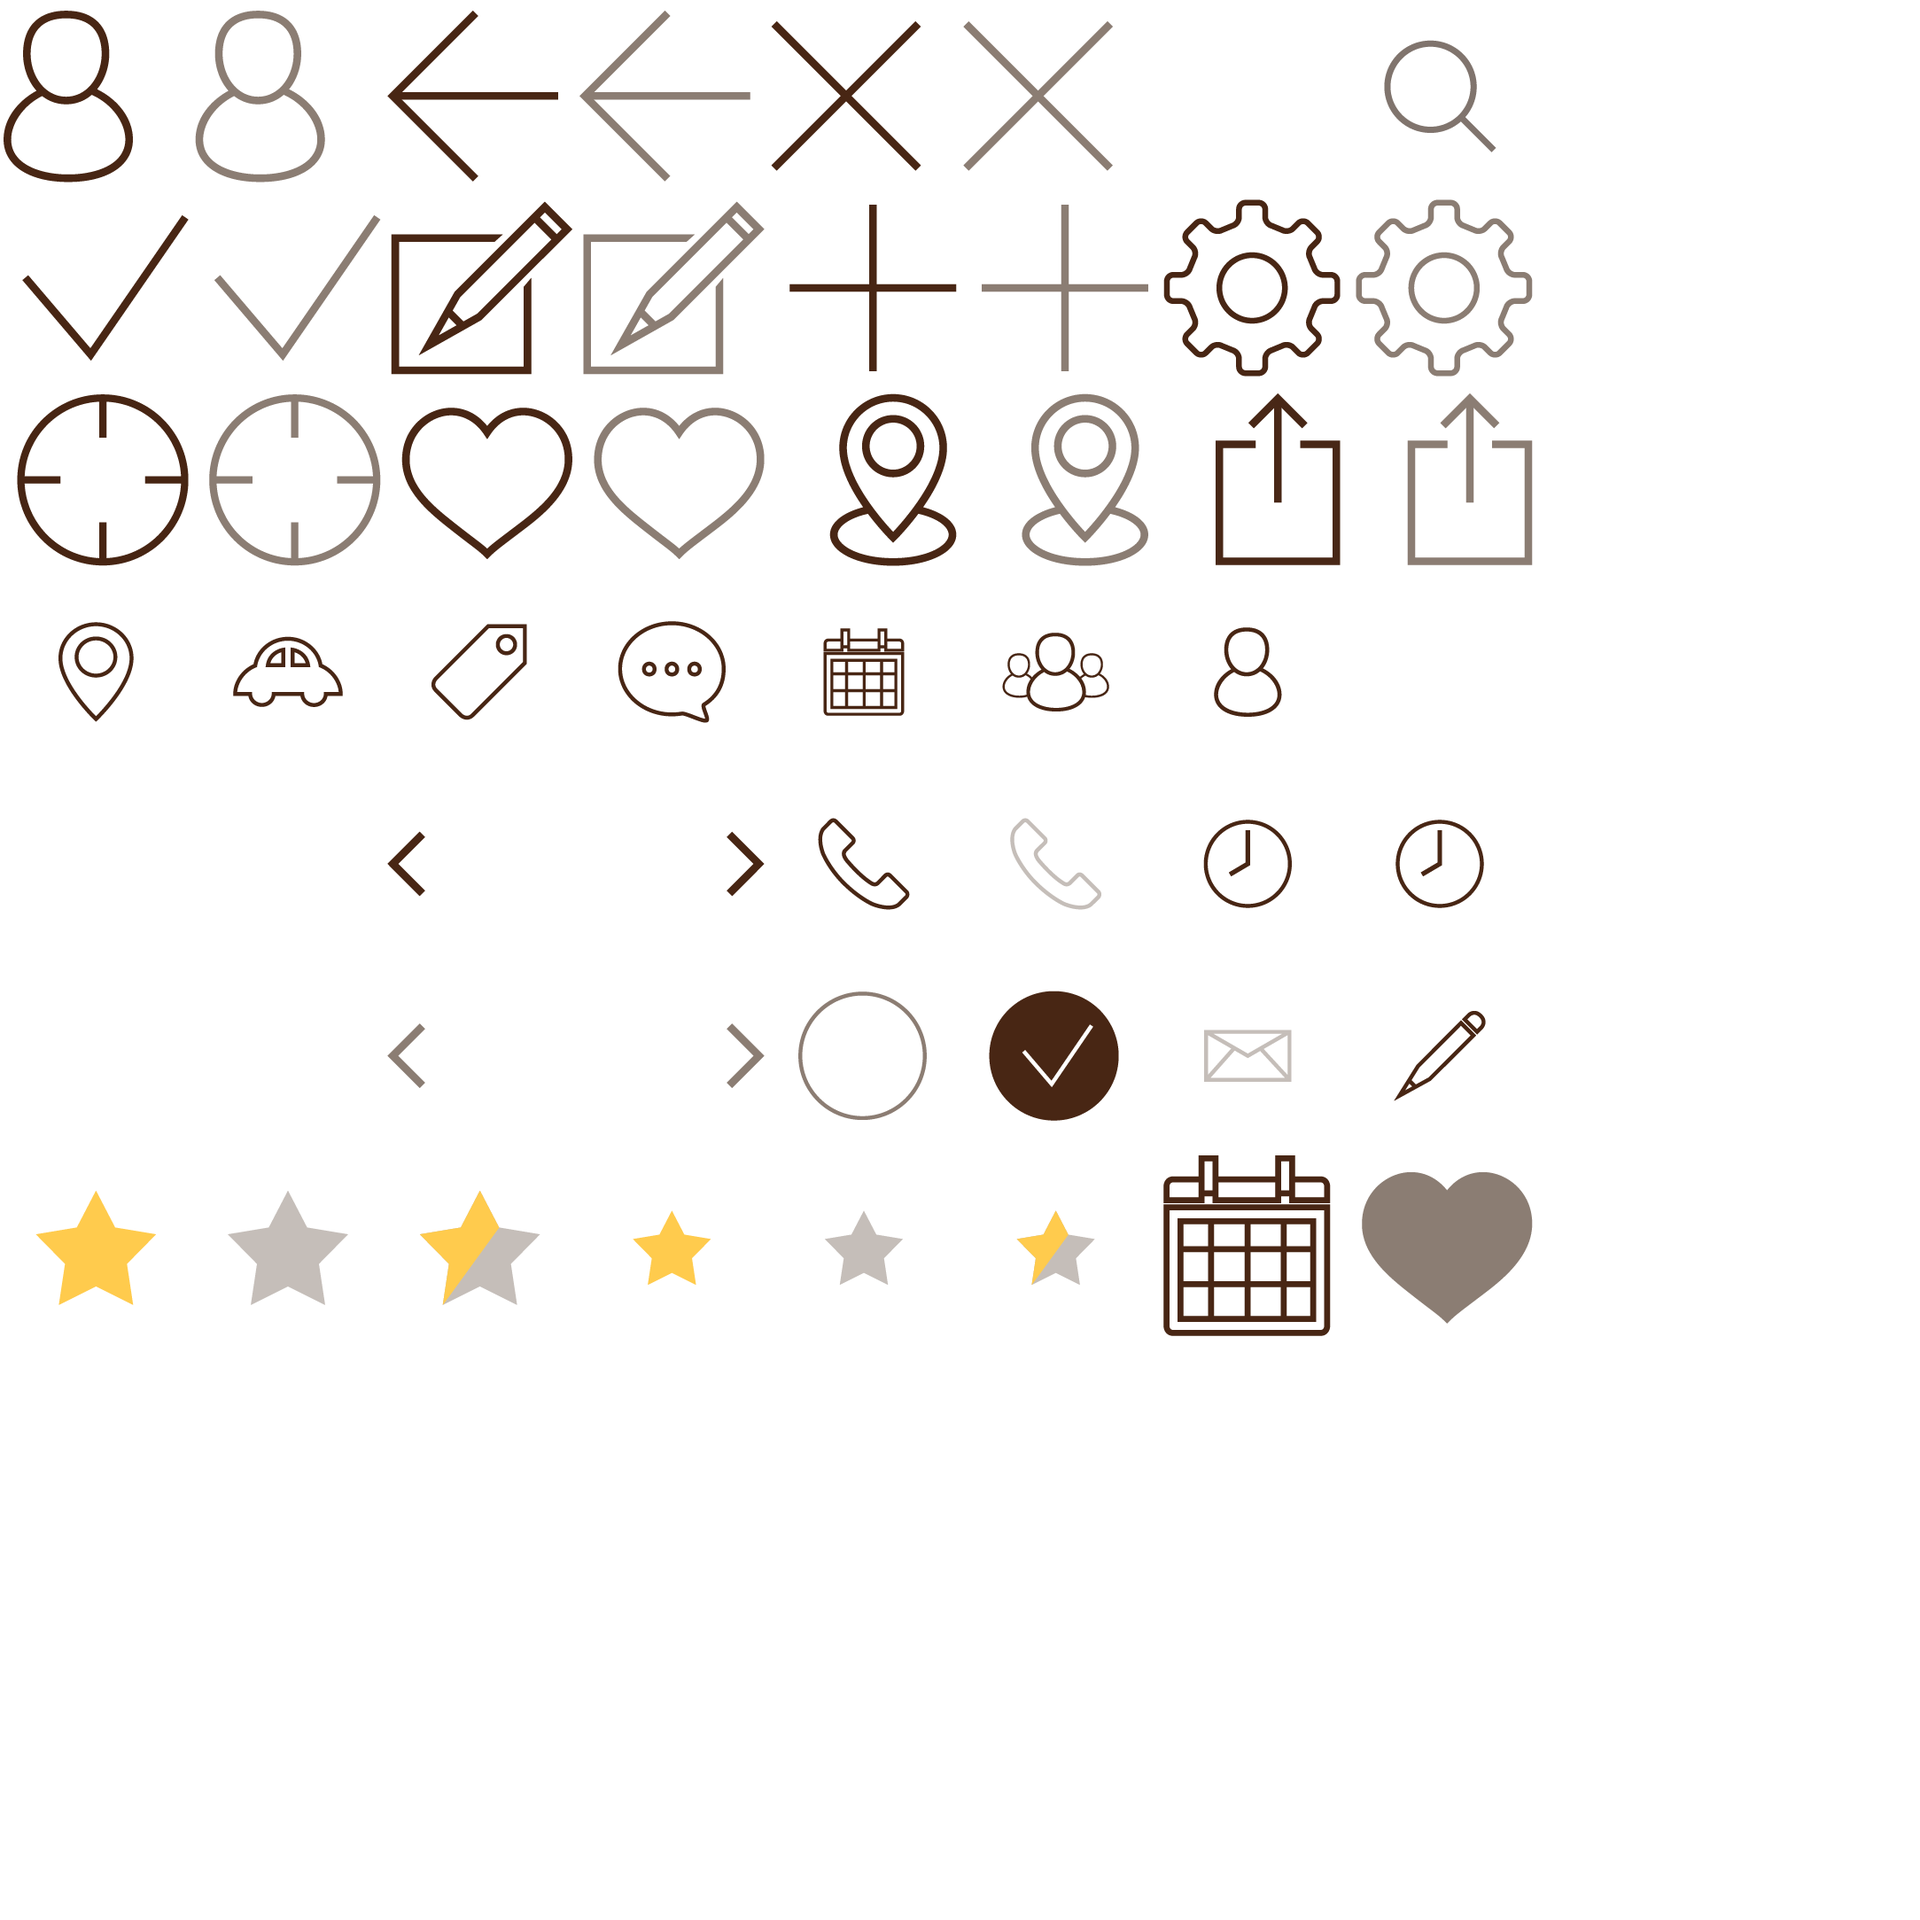
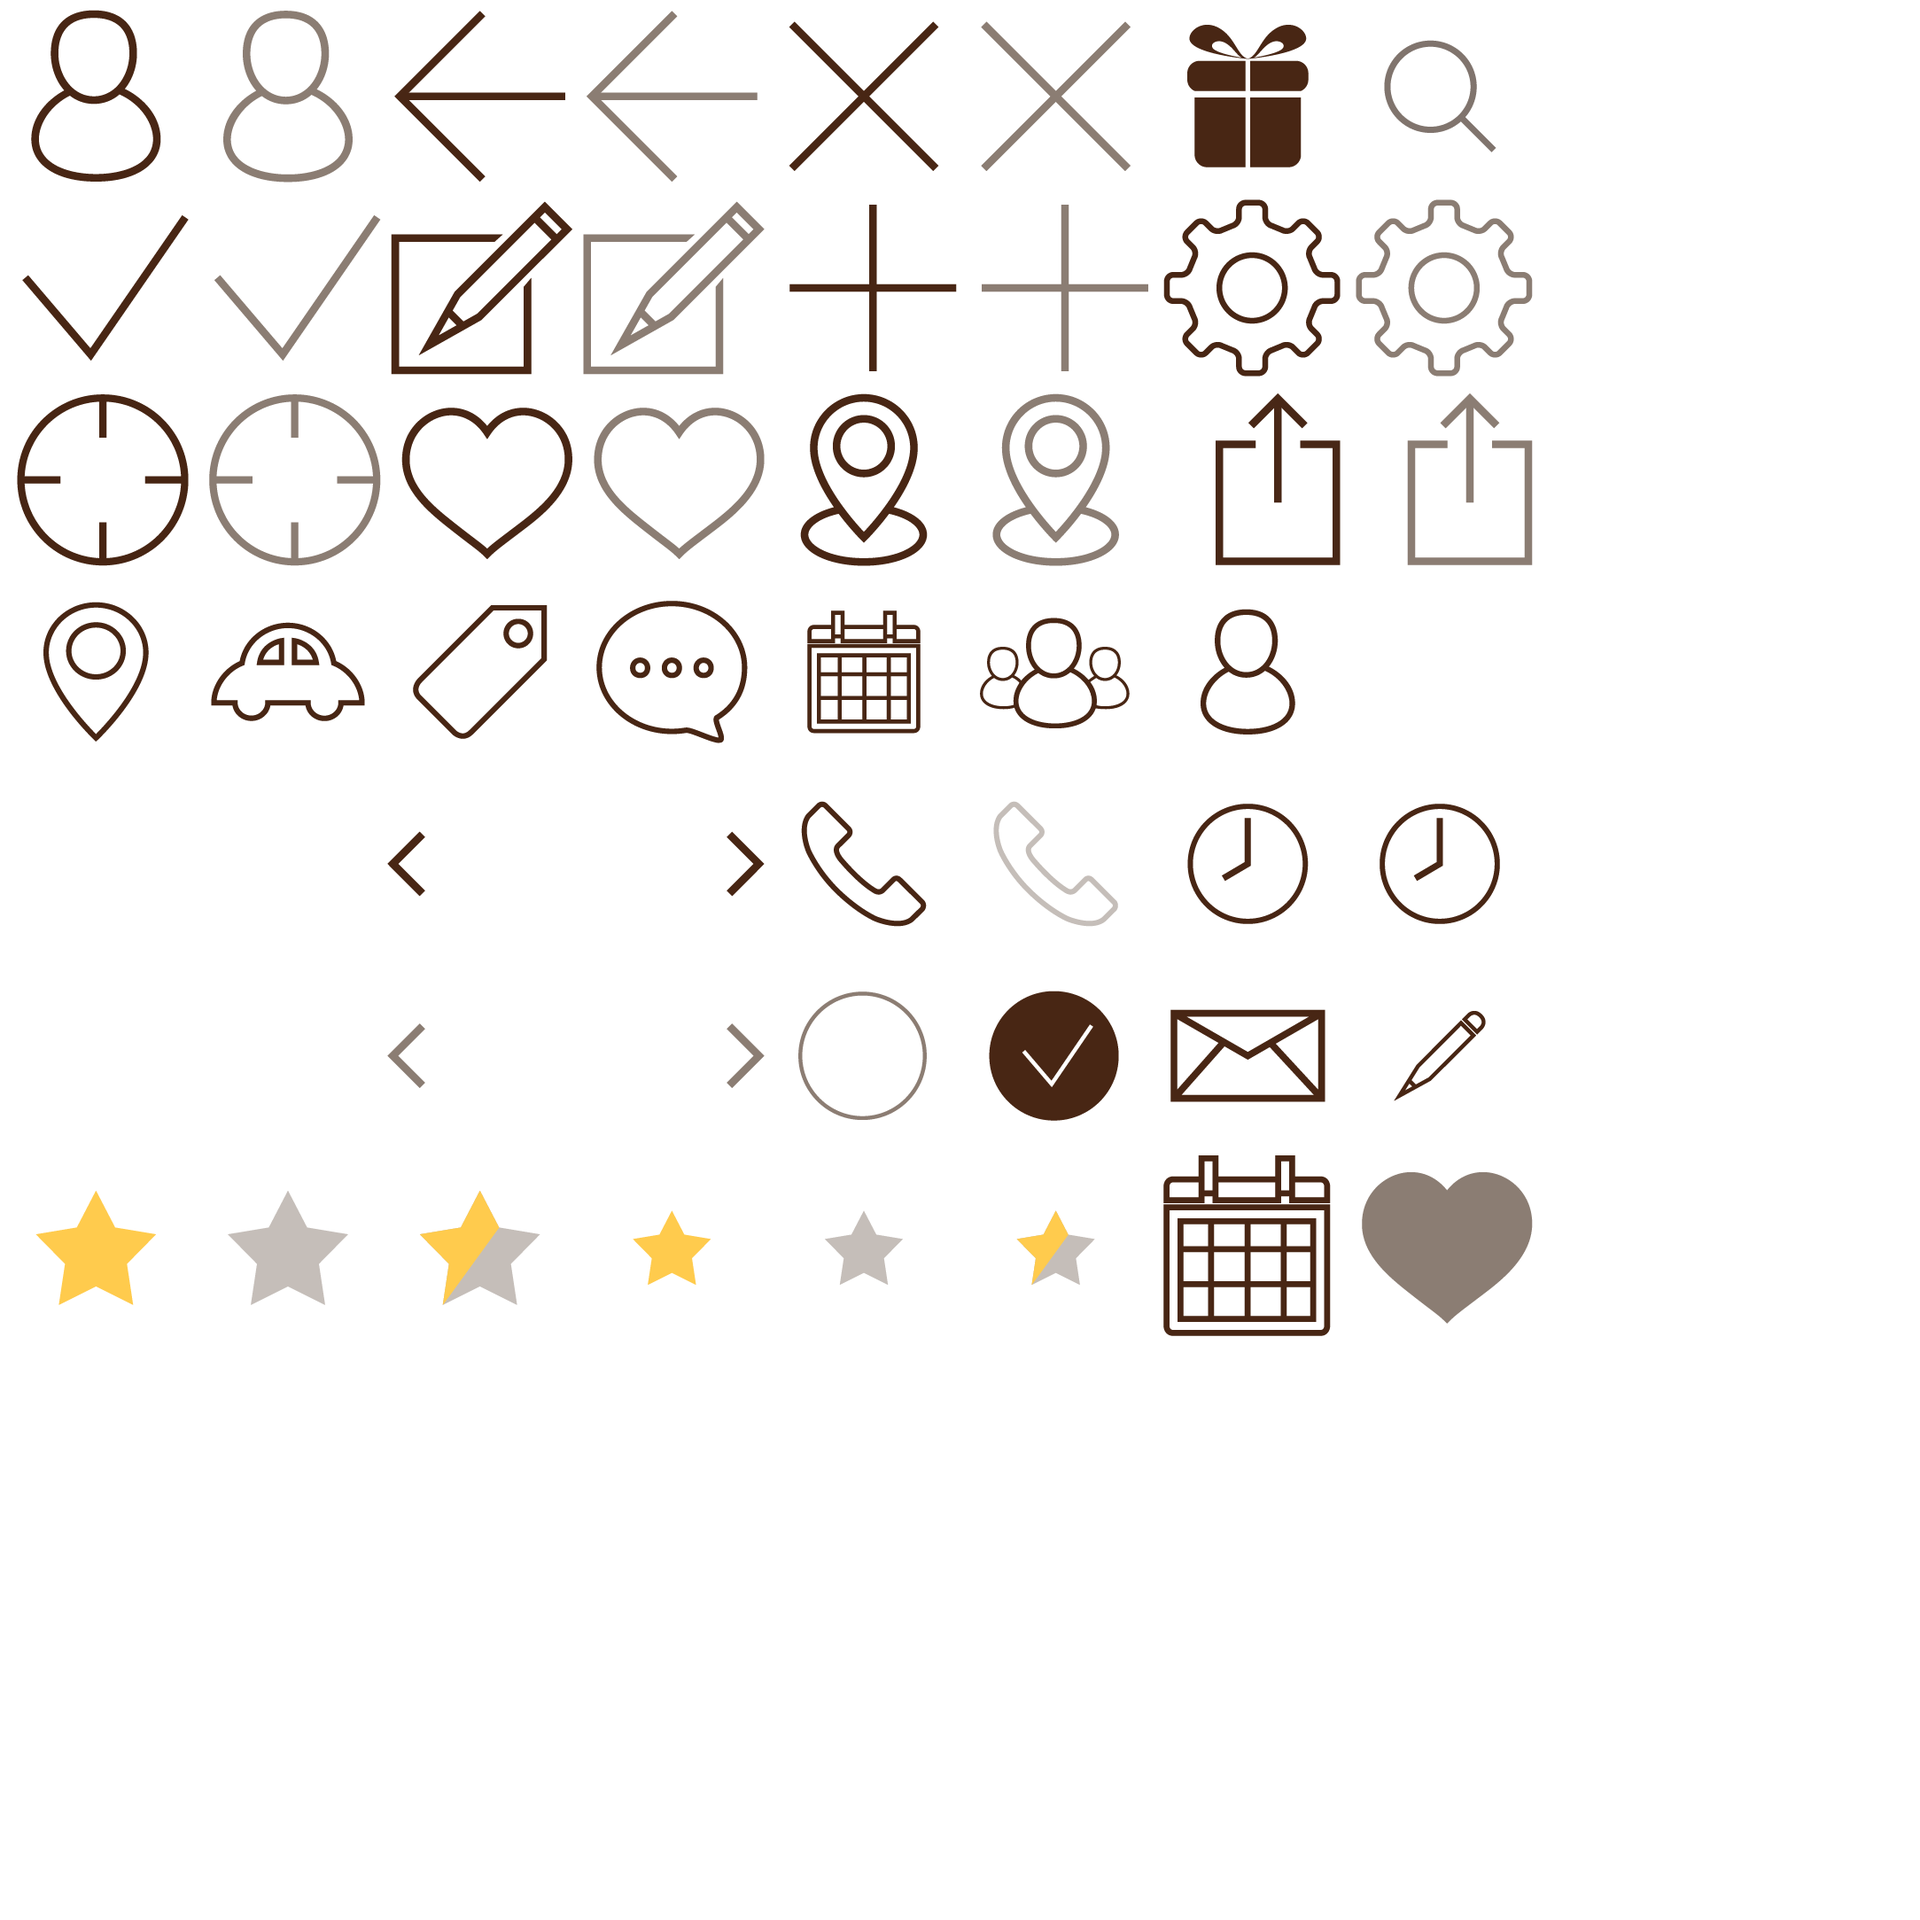
Add anniversary detail.

diff --git a/assets/js/app/views/member-anniversary-detail.js b/assets/js/app/views/member-anniversary-detail.js
@@ -1,0 +1,51 @@
+
+MeiweiApp.Views.MemberAnniversaryForm = MeiweiApp.View.extend({
+	events: {
+		'click .save-button': 'save',
+		'click .delete-button': 'remove',
+	},
+	save: function(e) {
+		e.preventDefault();
+		this.anniversary.set({
+			date: this.$('input[name=date]').val() || null,
+			description: this.$('input[name=description]').val() || null
+		});
+		var $infoText = this.$('.info-text');
+		this.anniversary.save({}, { 
+		    success: function() {
+		    	MeiweiApp.goTo('MemberAnniversaries');
+		    },
+		    error: function(model, xhr, options) {
+	            var error = JSON.parse(xhr.responseText);
+		        for (var k in error) { $infoText.html(error[k]);  break; };
+            }
+		});
+	},
+	remove: function() {
+		this.anniversary.destroy({
+			success: function() {
+		    	MeiweiApp.goTo('MemberAnniversaries');
+		    }, 
+		});
+	},
+	render: function() {
+		this.$('.delete-button').toggleClass('hidden', this.anniversary.isNew());
+		this.$('input[name=date]').val(this.anniversary.get('date'));
+		this.$('input[name=description]').val(this.anniversary.get('description'));
+	}
+});
+
+MeiweiApp.Pages.MemberAnniversariyDetail = new (MeiweiApp.PageView.extend({
+	initPage: function() {
+		this.views = {
+			anniversaryForm: new MeiweiApp.Views.MemberAnniversaryForm({
+				el: this.$('.anniversary-detail-form')
+			}),
+		};
+	},
+	render: function() {
+		this.views.anniversaryForm.anniversary = this.options.anniversary ? 
+			this.options.anniversary : new MeiweiApp.Models.Anniversary();
+		this.views.anniversaryForm.render();
+	}
+}))({el: $("#view-member-anniversary-detail")});

diff --git a/mobile/view-member-anniversary-detail.html b/mobile/view-member-anniversary-detail.html
@@ -1,0 +1,38 @@
+<div class="view view-hidden" id="view-member-anniversary-detail">
+	<header>
+		<div class="header-btn header-btn-left">
+			<i class="icon-back"></i>
+		</div>
+		<h1>纪念日</h1>
+		<div class="header-btn header-btn-right">
+			<i class="icon-blank"></i>
+		</div>
+	</header>
+	<section class="wrapper">
+		<div class="scroll iscroll">
+			<div class="scroll-inner">
+				<div class="anniversary-detail-form">
+					<form>
+						<p class="info-text"></p>
+						<fieldset>
+							<div class="inline-group">
+								<i class="icon-gift"></i>
+								<label>标题</label>
+								<input type="text" name="description" placeholder="标题"/>
+							</div>
+							<div class="inline-group">
+								<i class="icon-calendar"></i>
+								<label>日期</label>
+								<input type="date" name="date" />
+							</div>
+						</fieldset>
+					</form>
+					<div class="button-group">
+						<button class="save-button btn-inverse">保存</button>
+						<button class="delete-button">删除</button>
+					</div>
+				</div>
+			</div>
+		</div>
+	</section>
+</div>

diff --git a/assets/js/app/views/member-anniversaries.js b/assets/js/app/views/member-anniversaries.js
@@ -2,7 +2,13 @@
 MeiweiApp.Views.AnnversaryList = MeiweiApp.CollectionView.extend({
 	ModelView: MeiweiApp.ModelView.extend({
 		template: MeiweiApp.Templates['member-anniversary-item'],
-		className: 'anniversary-list-item'
+		className: 'anniversary-list-item',
+		events: { 'click': 'modify' },
+		modify: function() {
+			MeiweiApp.goTo('MemberAnniversariyDetail', {
+				anniversary: this.model
+			});
+		}
 	}),
 	addAll: function() {
 		var $list = [];
@@ -21,7 +27,9 @@ MeiweiApp.Views.AnnversaryList = MeiweiApp.CollectionView.extend({
 
 MeiweiApp.Pages.MemberAnniversaries = new (MeiweiApp.PageView.extend({
 	onClickLeftBtn: function() { MeiweiApp.goTo('MemberCenter'); },
-	onClickRightBtn: function() { MeiweiApp.goTo('MemberAnniversariyDetail'); },
+	onClickRightBtn: function() {
+		MeiweiApp.goTo('MemberAnniversariyDetail');
+	},
 	initPage: function() {
 		this.anniversaries = new MeiweiApp.Collections.Anniversaries();
 		this.views = {

diff --git a/assets/scss/mobile/_sprites.scss b/assets/scss/mobile/_sprites.scss
@@ -35,6 +35,8 @@
 .icon-cancel				{ @include icon-offset(4, 0); }
 //.icon-cancel:active			{ @include icon-offset(5, 0); }
 
+.icon-gift					{ @include icon-offset(6, 0); }
+
 .icon-confirm				{ @include icon-offset(0, 1); }
 //.icon-confirm:active		{ @include icon-offset(1, 1); }
 
@@ -79,7 +81,7 @@
 .icon-clock					{ @include icon-offset(6, 4); }
 .icon-clock					{ @include icon-offset(7, 4); }
 
-.icon-gift					{ @include icon-offset(0, 5); }
+.icon-gift-light			{ @include icon-offset(0, 5); }
 .icon-edit-light			{ @include icon-offset(1, 5); }
 .icon-left-light			{ @include icon-offset(2, 5); }
 .icon-right-light			{ @include icon-offset(3, 5); }

diff --git a/assets/scss/mobile/_forms.scss b/assets/scss/mobile/_forms.scss
@@ -56,14 +56,14 @@ input[type="color"],
 	@include box-sizing(border-box);
 	@include box-shadow(none);
 	@include clear-outline();
-	@include placeholder($brownLight);
 	@include border-radius(0);
 	border: 1px solid $brownLighter;
 	
 	display: block;
 	color: $brown;
 	font-family: $sansFontFamily;
-	//font-size: $fontSizeSmall;
+	font-size: $fontSizeSmall;
+	@include placeholder($brownLight, $fontSizeSmall);
 	padding: 8px 11px;
 	height: 44px;
 	
@@ -98,6 +98,7 @@ form .info-text {
 form label {
 	font-size: $fontSizeSmall;
 	color: $brown;
+	vertical-align: middle;
 }
 
 //radio-button

diff --git a/assets/scss/mobile/_navbar.scss b/assets/scss/mobile/_navbar.scss
@@ -54,15 +54,15 @@
 	@include size(50px, 53px);
 	padding-bottom: 6px;
 	@include flex-box($orient: horizontal);
-	i { position: relative; }
-	i.pressed::before, &.pressed i::before {
+	i, p { position: relative; }
+	i.pressed::before, &.pressed i::before, p.pressed::before, &.pressed p::before {
 		content: "";
 		position: absolute;
 		top: -12px;
 		right: -12px;
 		bottom: -12px;
 		left: -12px;
-		background: url($spotLightPath) no-repeat center;
+		background: url($spotLightPath) no-repeat left;
 		@include background-size(contain);
 	}
 }

diff --git a/mobile/index.html b/mobile/index.html
@@ -58,6 +58,7 @@
         include "view-member-credits.html"
         include "view-member-favorites.html"
         include "view-member-anniversaries.html"
+        include "view-member-anniversary-detail.html"
         
         include "view-order-list.html"
         include "view-order-detail.html"

diff --git a/assets/scss/mobile/_buttons.scss b/assets/scss/mobile/_buttons.scss
@@ -51,8 +51,6 @@ input[type="submit"], button, .btn {
 	input[type="submit"], button, .btn {
 		@include flexible($orient: horizontal);
 		margin-right: 10px;
-		&:last-child {
-			margin-right: 0;
-		}
 	}
+	margin-right: -10px;
 }

diff --git a/assets/scss/pages/_member.scss b/assets/scss/pages/_member.scss
@@ -201,3 +201,10 @@
 		color: $white;
 	}
 }
+
+#view-member-anniversary-detail {
+	.anniversary-detail-form {
+		margin-top: 20px;
+		width: 80%;
+	}
+}
